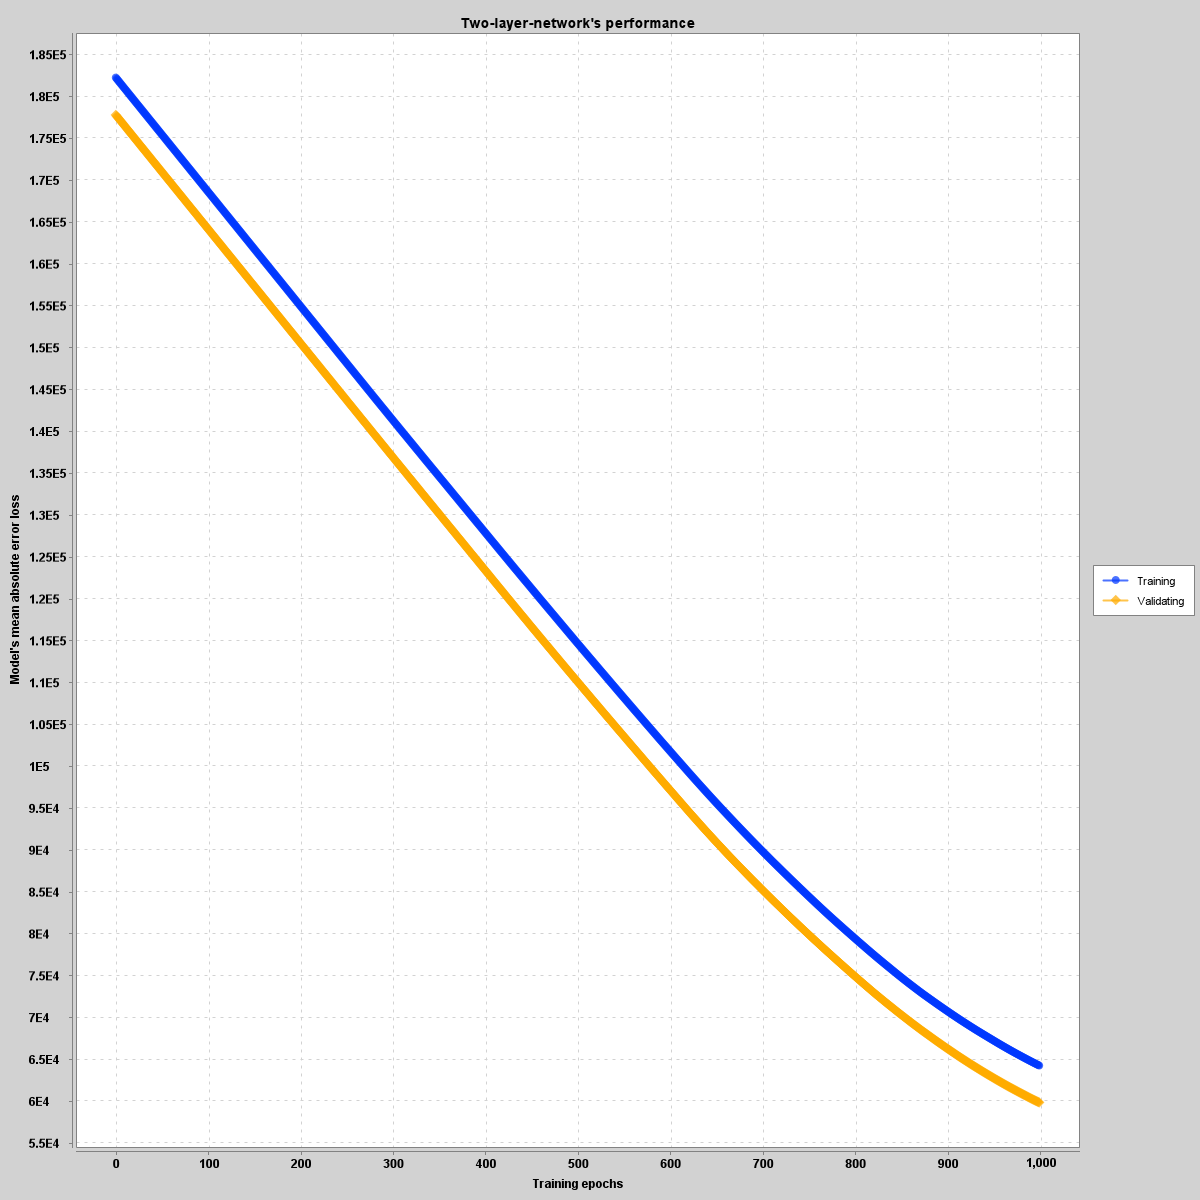
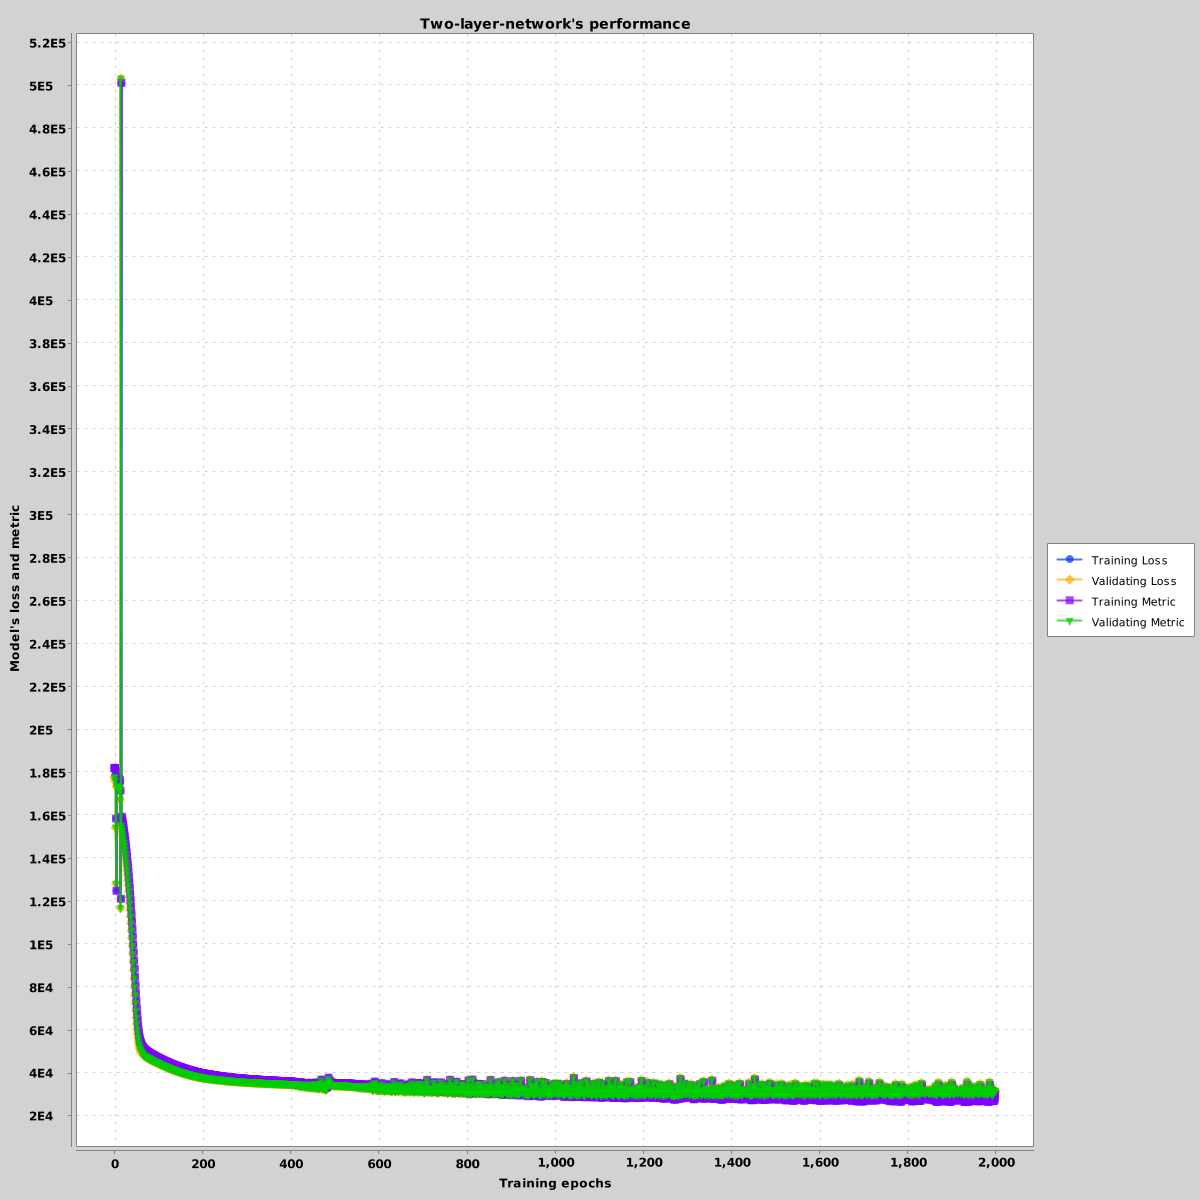
Very cool

diff --git a/src/main/kotlin/de/longuyen/trainer/HousePriceModelComparer.kt b/src/main/kotlin/de/longuyen/trainer/HousePriceModelComparer.kt
@@ -8,6 +8,8 @@ import de.longuyen.neuronalnetwork.activations.NoActivation
 import de.longuyen.neuronalnetwork.initializers.ChainInitializer
 import de.longuyen.neuronalnetwork.losses.MAE
 import de.longuyen.neuronalnetwork.metrics.Accuracy
+import de.longuyen.neuronalnetwork.optimizers.Adagrad
+import de.longuyen.neuronalnetwork.optimizers.Adam
 import de.longuyen.neuronalnetwork.optimizers.GradientDescent
 import de.longuyen.neuronalnetwork.optimizers.MomentumGradientDescent
 import org.knowm.xchart.BitmapEncoder
@@ -16,15 +18,15 @@ import org.knowm.xchart.XYChartBuilder
 import org.nd4j.linalg.indexing.NDArrayIndex
 import java.io.Serializable
 
-class HousePriceModelComparer(layers: IntArray, learningRate: Double, private val epochs: Long) :
+class HousePriceModelComparer(layers: IntArray = intArrayOf(318, 64, 32, 1), learningRate: Double = 0.001, private val epochs: Long = 200) :
     Serializable {
     private val firstNeuronalNetwork: NeuronalNetwork =
         NeuronalNetwork(layers, ChainInitializer(), LeakyRelu(), NoActivation(), MAE(), GradientDescent(learningRate),
-            Accuracy()
+            de.longuyen.neuronalnetwork.metrics.MAE()
         )
     private val secondNeuronalNetwork: NeuronalNetwork =
-        NeuronalNetwork(layers, ChainInitializer(), LeakyRelu(), NoActivation(), MAE(), MomentumGradientDescent(learningRate),
-            Accuracy())
+        NeuronalNetwork(layers, ChainInitializer(), LeakyRelu(), NoActivation(), MAE(), Adam(learningRate),
+            de.longuyen.neuronalnetwork.metrics.MAE())
 
     fun train() {
         val housePriceData: SupervisedDataGenerator = HousePriceDataGenerator()
@@ -35,17 +37,12 @@ class HousePriceModelComparer(layers: IntArray, learningRate: Double, private va
         val X = trainingData.first.get(NDArrayIndex.interval(0, 318), NDArrayIndex.interval(0, 1000))
         val Y = trainingData.second.get(NDArrayIndex.interval(0, 1), NDArrayIndex.interval(0, 1000))
 
-        val firstLosses = firstNeuronalNetwork.train(X, Y, x, y, epochs)
-        val secondLosses = secondNeuronalNetwork.train(X, Y, x, y, epochs)
+        val firstHistory = firstNeuronalNetwork.train(X, Y, x, y, epochs)
+        val secondHistory = secondNeuronalNetwork.train(X, Y, x, y, epochs)
 
-        val firstYTrain = firstLosses.first.toDoubleArray()
-        val firstYTest = firstLosses.second.toDoubleArray()
-        val secondYTrain = secondLosses.first.toDoubleArray()
-        val secondYTest = secondLosses.second.toDoubleArray()
+        val xData = DoubleArray(firstHistory["val-loss"]!!.size)
 
-        val xData = DoubleArray(firstLosses.first.size)
-
-        for (i in 0 until firstLosses.first.size) {
+        for (i in 0 until firstHistory["val-loss"]!!.size) {
             xData[i] = i.toDouble()
         }
         val chart: XYChart = XYChartBuilder()
@@ -55,15 +52,13 @@ class HousePriceModelComparer(layers: IntArray, learningRate: Double, private va
             .xAxisTitle("Training epochs")
             .yAxisTitle("Models' mean absolute error loss")
             .build()
-        chart.addSeries("Gradient descent Training", xData, firstYTrain)
-        chart.addSeries("Gradient descent Validating", xData, firstYTest)
-        chart.addSeries("Momentum driven gradient descent Training", xData, secondYTrain)
-        chart.addSeries("Momentum driven gradient descent Validating", xData, secondYTest)
+        chart.addSeries("Gradient descent Validating loss", xData, firstHistory["val-loss"])
+        chart.addSeries("Adagrad Validating loss", xData, secondHistory["val-loss"])
         BitmapEncoder.saveBitmap(chart, "target/performance", BitmapEncoder.BitmapFormat.PNG)
     }
 }
 
 fun main() {
-    val trainer = HousePriceModelComparer(intArrayOf(318, 32, 1), 0.001, 2000)
+    val trainer = HousePriceModelComparer()
     trainer.train()
 }

diff --git a/src/main/kotlin/de/longuyen/trainer/MnistModelTrainer.kt b/src/main/kotlin/de/longuyen/trainer/MnistModelTrainer.kt
@@ -3,16 +3,13 @@ package de.longuyen.trainer
 import de.longuyen.data.SupervisedDataGenerator
 import de.longuyen.data.mnist.MnistDataGenerator
 import de.longuyen.neuronalnetwork.NeuronalNetwork
-import de.longuyen.neuronalnetwork.activations.LeakyRelu
 import de.longuyen.neuronalnetwork.activations.Relu
 import de.longuyen.neuronalnetwork.activations.Softmax
 import de.longuyen.neuronalnetwork.initializers.ChainInitializer
 import de.longuyen.neuronalnetwork.losses.CrossEntropy
 import de.longuyen.neuronalnetwork.metrics.Accuracy
-import de.longuyen.neuronalnetwork.optimizers.Adagrad
 import de.longuyen.neuronalnetwork.optimizers.Adam
 import de.longuyen.neuronalnetwork.optimizers.GradientDescent
-import de.longuyen.neuronalnetwork.optimizers.MomentumGradientDescent
 import org.knowm.xchart.BitmapEncoder
 import org.knowm.xchart.XYChart
 import org.knowm.xchart.XYChartBuilder
@@ -30,7 +27,7 @@ class MnistModelTrainer :
             Relu(),
             Softmax(),
             CrossEntropy(),
-            Adam(learningRate = 0.01),
+            GradientDescent(learningRate = 0.01),
             Accuracy()
         )
 
@@ -43,23 +40,23 @@ class MnistModelTrainer :
         val x = testingData.first
         val y = testingData.second
 
-        val losses = neuronalNetwork.train(X, Y, x, y, epochs = 200)
-        val xData = DoubleArray(losses.first.size)
-        for (i in 0 until losses.first.size) {
+        val history = neuronalNetwork.train(X, Y, x, y, epochs = 200)
+        val xData = DoubleArray(history["val-loss"]!!.size)
+        for (i in 0 until history["val-loss"]!!.size) {
             xData[i] = i.toDouble()
         }
-        val yTrain = losses.first.toDoubleArray()
-        val yTest = losses.second.toDoubleArray()
 
         val chart: XYChart = XYChartBuilder()
             .width(1200)
             .height(1200)
             .title("Mnist's performance")
             .xAxisTitle("Training epochs")
-            .yAxisTitle("Model's cross entropy loss")
+            .yAxisTitle("Model's loss and metric")
             .build()
-        chart.addSeries("Training", xData, yTrain)
-        chart.addSeries("Validating", xData, yTest)
+        chart.addSeries("Training loss", xData, history["train-loss"])
+        chart.addSeries("Validating loss", xData, history["val-loss"])
+        chart.addSeries("Training metric", xData, history["train-metric"])
+        chart.addSeries("Validating metric", xData, history["val-metric"])
         BitmapEncoder.saveBitmap(chart, "target/performance", BitmapEncoder.BitmapFormat.PNG)
         FileOutputStream("target/neuronalnetwork.ser").use { fos ->
             ObjectOutputStream(fos).use { oos ->

diff --git a/src/main/kotlin/de/longuyen/trainer/HousePriceModelTrainer.kt b/src/main/kotlin/de/longuyen/trainer/HousePriceModelTrainer.kt
@@ -18,7 +18,7 @@ import java.io.Serializable
 /**
  * Driver code to run a model on the house price data set
  */
-class HousePriceModelTrainer(layers: IntArray, learningRate: Double, private val epochs: Long) :
+class HousePriceModelTrainer(layers: IntArray= intArrayOf(318, 64, 32, 1), learningRate: Double=0.001, private val epochs: Long=2000) :
     Serializable {
     private val neuronalNetwork: NeuronalNetwork =
         NeuronalNetwork(
@@ -28,7 +28,7 @@ class HousePriceModelTrainer(layers: IntArray, learningRate: Double, private val
             NoActivation(),
             MAE(),
             MomentumGradientDescent(learningRate),
-            Accuracy()
+            de.longuyen.neuronalnetwork.metrics.MAE()
         )
 
     fun train() {
@@ -40,28 +40,28 @@ class HousePriceModelTrainer(layers: IntArray, learningRate: Double, private val
         val x = trainingData.first.get(NDArrayIndex.interval(0, 318), NDArrayIndex.interval(1000, 1460))
         val y = trainingData.second.get(NDArrayIndex.interval(0, 1), NDArrayIndex.interval(1000, 1460))
 
-        val losses = neuronalNetwork.train(X, Y, x, y, epochs)
-        val xData = DoubleArray(losses.first.size)
-        for (i in 0 until losses.first.size) {
+        val history = neuronalNetwork.train(X, Y, x, y, epochs)
+        val xData = DoubleArray(history["val-loss"]!!.size)
+        for (i in 0 until history["val-loss"]!!.size) {
             xData[i] = i.toDouble()
         }
-        val yTrain = losses.first.toDoubleArray()
-        val yTest = losses.second.toDoubleArray()
 
         val chart: XYChart = XYChartBuilder()
             .width(1200)
             .height(1200)
             .title("Two-layer-network's performance")
             .xAxisTitle("Training epochs")
-            .yAxisTitle("Model's mean absolute error loss")
+            .yAxisTitle("Model's loss and metric")
             .build()
-        chart.addSeries("Training", xData, yTrain)
-        chart.addSeries("Validating", xData, yTest)
+        chart.addSeries("Training Loss", xData, history["train-loss"])
+        chart.addSeries("Validating Loss", xData, history["val-loss"])
+        chart.addSeries("Training Metric", xData, history["train-metric"])
+        chart.addSeries("Validating Metric", xData, history["val-metric"])
         BitmapEncoder.saveBitmap(chart, "target/performance", BitmapEncoder.BitmapFormat.PNG)
     }
 }
 
 fun main() {
-    val trainer = HousePriceModelTrainer(intArrayOf(318, 32, 1), 0.001, 1000)
+    val trainer = HousePriceModelTrainer()
     trainer.train()
 }

diff --git a/src/main/kotlin/de/longuyen/neuronalnetwork/NeuronalNetwork.kt b/src/main/kotlin/de/longuyen/neuronalnetwork/NeuronalNetwork.kt
@@ -67,9 +67,11 @@ class NeuronalNetwork(private val layers: IntArray,  private val initializer: In
      * @param x validating features
      * @param y validating target
      */
-    fun train(X: INDArray, Y: INDArray, x: INDArray, y: INDArray, epochs: Long, verbose: Boolean = true): Pair<MutableList<Double>, MutableList<Double>> {
+    fun train(X: INDArray, Y: INDArray, x: INDArray, y: INDArray, epochs: Long, verbose: Boolean = true): Map<String, DoubleArray> {
         val validationLosses = mutableListOf<Double>()
         val trainingLosses = mutableListOf<Double>()
+        val trainingMetrics = mutableListOf<Double>()
+        val validationMetrics = mutableListOf<Double>()
 
         for (epoch in 0 until epochs) {
             // Forward propagation
@@ -89,10 +91,17 @@ class NeuronalNetwork(private val layers: IntArray,  private val initializer: In
 
                 validationLosses.add(validationLoss.element() as Double)
                 trainingLosses.add(trainingLoss.element() as Double)
+                validationMetrics.add(validationMetric)
+                trainingMetrics.add(trainingMetric)
             }
         }
 
-        return Pair(trainingLosses, validationLosses)
+        val ret = mutableMapOf<String, DoubleArray>()
+        ret["val-loss"] = validationLosses.toDoubleArray()
+        ret["train-loss"] = trainingLosses.toDoubleArray()
+        ret["val-metric"] = validationMetrics.toDoubleArray()
+        ret["train-metric"] = trainingMetrics.toDoubleArray()
+        return ret
     }
 
     /**

diff --git a/src/main/kotlin/de/longuyen/neuronalnetwork/optimizers/Adagrad.kt b/src/main/kotlin/de/longuyen/neuronalnetwork/optimizers/Adagrad.kt
@@ -6,16 +6,16 @@ import org.nd4j.linalg.factory.Nd4j
 import org.nd4j.linalg.ops.transforms.Transforms
 import java.io.Serializable
 
-class Adagrad(private val learningRate: Double, private val eps: Double=0.0000001): Optimizer(), Serializable {
+class Adagrad(private val learningRate: Double, private val eps: Double=0.0001): Optimizer(), Serializable {
     private val cache = mutableMapOf<String, INDArray>()
     private var initialized = false
     override fun optimize(weights: MutableMap<String, INDArray>, gradients: MutableMap<String, INDArray>, layers: Int) {
         if(!initialized){
-            initialized = true
             for(i in 2 until layers){
                 cache["cW$i"] = Nd4j.zerosLike(gradients["dW$i"]!!).castTo(DataType.DOUBLE)
                 cache["cb$i"] = Nd4j.zerosLike(gradients["db$i"]!!).castTo(DataType.DOUBLE)
             }
+            initialized = true
         }
         for(i in 2 until layers){
             cache["cW$i"] = cache["cW$i"]!!.add(Transforms.pow(gradients["dW$i"]!!, 2.0))

diff --git a/src/main/kotlin/de/longuyen/neuronalnetwork/metrics/MAE.kt b/src/main/kotlin/de/longuyen/neuronalnetwork/metrics/MAE.kt
@@ -1,0 +1,14 @@
+package de.longuyen.neuronalnetwork.metrics
+
+import org.nd4j.linalg.api.ndarray.INDArray
+import org.nd4j.linalg.ops.transforms.Transforms
+import java.io.Serializable
+
+class MAE : Metric(), Serializable{
+    override fun compute(yTrue: INDArray, yPrediction: INDArray): Double {
+        val diff = yPrediction.sub(yTrue)
+        val absolute = Transforms.abs(diff)
+        return absolute.sum(true, 0).mean().element() as Double
+    }
+
+}

diff --git a/src/main/kotlin/de/longuyen/neuronalnetwork/optimizers/Adam.kt b/src/main/kotlin/de/longuyen/neuronalnetwork/optimizers/Adam.kt
@@ -11,6 +11,7 @@ class Adam(private val learningRate: Double, private val alpha: Double=0.1, priv
     private val M = mutableMapOf<String, INDArray>()
     private val R = mutableMapOf<String, INDArray>()
     private var epoch = 1
+
     override fun optimize(weights: MutableMap<String, INDArray>, gradients: MutableMap<String, INDArray>, layers: Int) {
         if(!initialized){
             initialized = true

diff --git a/src/main/kotlin/de/longuyen/neuronalnetwork/optimizers/MomentumGradientDescent.kt b/src/main/kotlin/de/longuyen/neuronalnetwork/optimizers/MomentumGradientDescent.kt
@@ -14,6 +14,7 @@ class MomentumGradientDescent(private val learningRate: Double, private val mome
                 velocity["vW$i"] = Nd4j.zeros(*weights["W$i"]!!.shape())
                 velocity["vb$i"] = Nd4j.zeros(*weights["b$i"]!!.shape())
             }
+            initialized = true
         }
         for(i in 2 until layers){
             velocity["vW$i"] = velocity["vW$i"]!!.mul(momentum)
